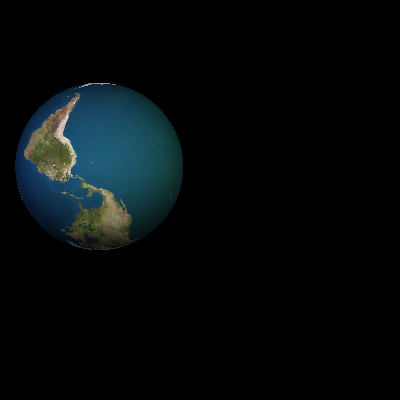
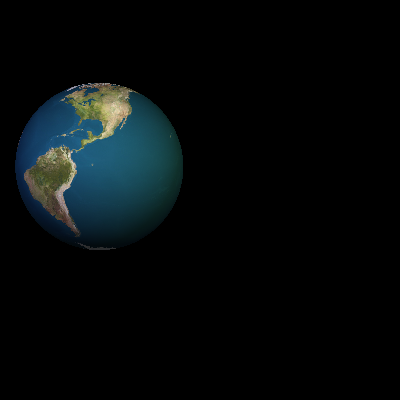
added rotation vector

Changed region(s): [[0.06, 0.21, 0.33, 0.63]]

diff --git a/Raytracer_2/Code/raytracer.cpp b/Raytracer_2/Code/raytracer.cpp
@@ -40,14 +40,20 @@ bool Raytracer::parseObjectNode(json const &node, string const &ifname)
     {
         Point pos(node["position"]);
         double radius = node["radius"];
-        float angle;
+        float angle = 0.0;
+
         auto angleStatus = node.find("angle");
         if (angleStatus != node.end()) {
             angle = node["angle"];
-        } else {
-            angle = 0.0;
         }
-        obj = ObjectPtr(new Sphere(pos, radius, angle));
+        auto rotationStatus = node.find("rotation");
+        if (rotationStatus != node.end()) {
+            Point rotation(node["rotation"]);
+            obj = ObjectPtr(new Sphere(pos, radius, rotation, angle));
+        } else {
+            obj = ObjectPtr(new Sphere(pos, radius, Point(0.0,0.0,0.0), angle));
+        }
+
     } else if (node["type"] == "triangle") {
         Point vertex1(node["vertex1"]);
         Point vertex2(node["vertex2"]);

diff --git a/Raytracer_2/Code/shapes/sphere.cpp b/Raytracer_2/Code/shapes/sphere.cpp
@@ -59,14 +59,19 @@ Hit Sphere::intersect(Ray const &ray)
 }
 
 std::tuple<float, float> Sphere::pointMapping(Triple p) {
+//    This is done through the simplest possible rotation and then the whole sphere
+//    is rotated by angle degrees around the z-axis (note that this corresponds to
+//    subtracting the angle in radians from the angle gotten by the arctan).
     float u = 0.5 + atan2(p.z,p.x) / (2*M_PI);
-    float v = 0.5 - asin(p.y) / M_PI;
+//    u = u - (this->a * (M_PI/180));
+    float v = 0.5 + asin(p.y) / M_PI;
     return std::make_tuple(u,v);
 }
 
-Sphere::Sphere(Point const &pos, double radius, float angle)
+Sphere::Sphere(Point const &pos, double radius, Point rotation, float angle)
 :
     position(pos),
     r(radius),
+    rot(rotation),
     a(angle)
 {}

diff --git a/Raytracer_2/Code/scene.cpp b/Raytracer_2/Code/scene.cpp
@@ -39,7 +39,7 @@ Color Scene::trace(Ray const &ray, int const reflectionDepth)
         float u, v;
         //pointmaping needs unit vector from hitpoint pointing to sphere's origin
         //this is exactly minus one times the normal vector
-        std::tie(u,v) = obj->pointMapping(-1 * N);
+        std::tie(u,v) = obj->pointMapping((-1*N).normalized());
         Image im = material->texture;
         color = im.colorAt(u, v);
     } else {
@@ -103,6 +103,7 @@ void Scene::render(Image &img)
     unsigned h = img.height();
     float step  = 1.0/(superSampling + 1);
 
+    #pragma omp parallel num_threads(2)
     #pragma omp parallel for
     for (unsigned y = 0; y < h; ++y)
     {

diff --git a/Raytracer_2/Code/shapes/sphere.h b/Raytracer_2/Code/shapes/sphere.h
@@ -10,13 +10,14 @@ using namespace std;
 class Sphere: public Object
 {
     public:
-        Sphere(Point const &pos, double radius, float angle);
+        Sphere(Point const &pos, double radius, Point rotation, float angle);
 
         virtual Hit intersect(Ray const &ray);
         virtual std::tuple<float, float> pointMapping(Triple p);
 
         Point const position;
         double const r;
+        Point const rot;
         float const a;
 };
 
